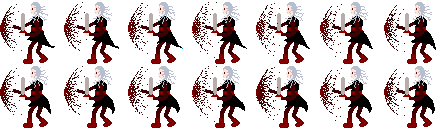
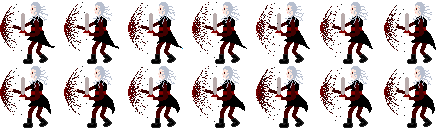
faster and smoother animations
animations are faster and no longer glitchy
when not walking, still animation is used rather than walking

diff --git a/src/Assets.java b/src/Assets.java
@@ -243,13 +243,14 @@ public class Assets {
     }
 
     public static void initAsha(String type){
-        SpriteSheet sheet_player_right = new SpriteSheet(ImageLoader.loadImage("../res/Asha/" + type + "/Asha WR.png"),65,64);
-        SpriteSheet sheet_player_left = new SpriteSheet(ImageLoader.loadImage("../res/Asha/" + type + "/Asha WL.png"),65,64);
-        SpriteSheet sheet_attack_left = new SpriteSheet(ImageLoader.loadImage("../res/Asha/" + type + "/Asha AL.png"),61,64);
+        SpriteSheet sheet_player_right = new SpriteSheet(ImageLoader.loadImage("../res/Asha/" + type + "/Asha WR.png"),64,64);
+        SpriteSheet sheet_player_left = new SpriteSheet(ImageLoader.loadImage("../res/Asha/" + type + "/Asha WL.png"),64,64);
+        SpriteSheet sheet_attack_left = new SpriteSheet(ImageLoader.loadImage("../res/Asha/" + type + "/Asha AL.png"),64,64);
         SpriteSheet sheet_attack_right = new SpriteSheet(ImageLoader.loadImage("../res/Asha/" + type + "/Asha AR.png"),64,64);
         SpriteSheet sheet_shield_left = new SpriteSheet(ImageLoader.loadImage("../res/Asha/" + type + "/Asha SL.png"),64,64);
         SpriteSheet sheet_shield_right = new SpriteSheet(ImageLoader.loadImage("../res/Asha/" + type + "/Asha SR.png"),64,64);
 
+        //shield
         shield_left[0] = sheet_shield_left.crop(0, 0, 1, 1);
         shield_left[1] = sheet_shield_left.crop(1, 0, 1, 1);
         shield_left[2] = sheet_shield_left.crop(2, 0, 1, 1);
@@ -266,6 +267,7 @@ public class Assets {
         shield_right[5] = sheet_shield_right.crop(5, 0, 1, 1);
         shield_right[6] = sheet_shield_right.crop(6, 0, 1, 1);
 
+        //walking
         player_down[0] = sheet_player_right.crop(0, 0, 1, 1);
         player_down[1] = sheet_player_right.crop(1, 0, 1, 1);
         player_down[2] = sheet_player_right.crop(2, 0, 1, 1);
@@ -380,7 +382,7 @@ public class Assets {
         attack_up[10] = sheet_attack_left.crop(2, 2, 1, 1);
         attack_up[11] = sheet_attack_left.crop(3, 2, 1, 1);
         attack_up[12] = sheet_attack_left.crop(0, 3, 1, 1);
-        attack_up[13] = sheet_attack_left.crop(1, 2, 1, 1);
+        attack_up[13] = sheet_attack_left.crop(1, 3, 1, 1);
         attack_up[14] = sheet_attack_left.crop(2, 3, 1, 1);
         attack_up[15] = sheet_attack_left.crop(3, 3, 1, 1);
         attack_up[16] = sheet_attack_left.crop(0, 4, 1, 1);
@@ -406,7 +408,7 @@ public class Assets {
         attack_left[10] = sheet_attack_left.crop(2, 2, 1, 1);
         attack_left[11] = sheet_attack_left.crop(3, 2, 1, 1);
         attack_left[12] = sheet_attack_left.crop(0, 3, 1, 1);
-        attack_left[13] = sheet_attack_left.crop(1, 2, 1, 1);
+        attack_left[13] = sheet_attack_left.crop(1, 3, 1, 1);
         attack_left[14] = sheet_attack_left.crop(2, 3, 1, 1);
         attack_left[15] = sheet_attack_left.crop(3, 3, 1, 1);
         attack_left[16] = sheet_attack_left.crop(0, 4, 1, 1);
@@ -432,7 +434,7 @@ public class Assets {
         attack_down[10] = sheet_attack_right.crop(2, 2, 1, 1);
         attack_down[11] = sheet_attack_right.crop(3, 2, 1, 1);
         attack_down[12] = sheet_attack_right.crop(0, 3, 1, 1);
-        attack_down[13] = sheet_attack_right.crop(1, 2, 1, 1);
+        attack_down[13] = sheet_attack_right.crop(1, 3, 1, 1);
         attack_down[14] = sheet_attack_right.crop(2, 3, 1, 1);
         attack_down[15] = sheet_attack_right.crop(3, 3, 1, 1);
         attack_down[16] = sheet_attack_right.crop(0, 4, 1, 1);
@@ -458,7 +460,7 @@ public class Assets {
         attack_right[10] = sheet_attack_right.crop(2, 2, 1, 1);
         attack_right[11] = sheet_attack_right.crop(3, 2, 1, 1);
         attack_right[12] = sheet_attack_right.crop(0, 3, 1, 1);
-        attack_right[13] = sheet_attack_right.crop(1, 2, 1, 1);
+        attack_right[13] = sheet_attack_right.crop(1, 3, 1, 1);
         attack_right[14] = sheet_attack_right.crop(2, 3, 1, 1);
         attack_right[15] = sheet_attack_right.crop(3, 3, 1, 1);
         attack_right[16] = sheet_attack_right.crop(0, 4, 1, 1);

diff --git a/src/Player.java b/src/Player.java
@@ -5,7 +5,7 @@ import java.awt.image.BufferedImage;
 public class Player extends Creature {
 
     //Animations
-    private int animation_speed = 75;//the smaller the number, the faster the anmation
+    private int animation_speed = 15;//the smaller the number, the faster the anmation
     private Animation animDown, animUp, animLeft, animRight;
     public Animation anim_attack_down, anim_attack_up, anim_attack_left,anim_attack_right;
     public Animation anim_shield_left, anim_shield_right;
@@ -50,8 +50,8 @@ public class Player extends Creature {
         anim_attack_left = new Animation(animation_speed, Assets.attack_left);
         anim_attack_right = new Animation(animation_speed, Assets.attack_right);
         //Shield
-        anim_shield_left = new Animation(animation_speed, Assets.shield_left);
-        anim_shield_right = new Animation(animation_speed, Assets.shield_right);
+        anim_shield_left = new Animation(75, Assets.shield_left);
+        anim_shield_right = new Animation(75, Assets.shield_right);
 
         inventory = new Inventory(handler);
      //  game = new Game("Ashas Quest", 1024, 768);
@@ -333,8 +333,10 @@ public class Player extends Creature {
             return animRight.getCurrentFrame();
         }else if(yMove < 0){
             return animUp.getCurrentFrame();
-        } else {
+        } else if (yMove > 0){
             return animDown.getCurrentFrame();
+        }else{
+            return Assets.player_right[0];
         }
     }
 
